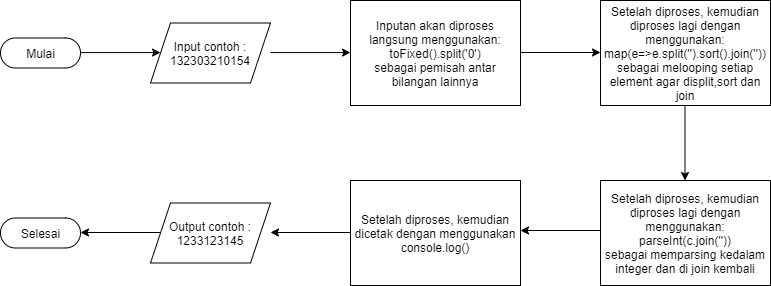
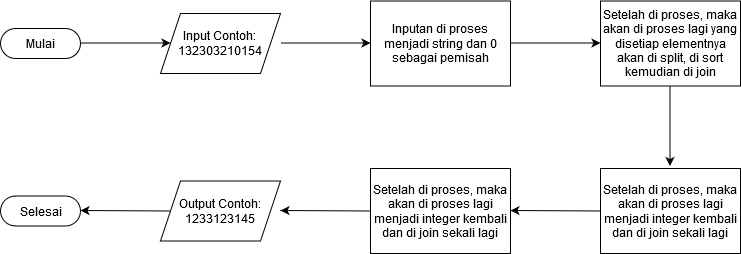
Revisi

diff --git a/task3.js b/task3.js
@@ -2,7 +2,7 @@
 // angka 0 dalam variable adalah pemisah antara bilangan lainnya
 
 divideAndSort = (masukanAngka) => {
-    const a = masukanAngka.toFixed().split('0')
+    const a = masukanAngka.toString().split('0')
     // console.log(a)
     const b = a.map(e => e.split('').sort().join(''))
     // console.log(b)
